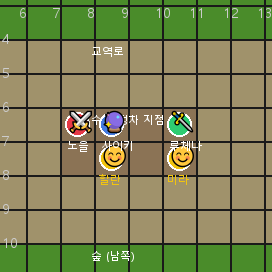
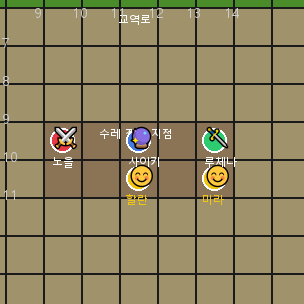
fix: 맵 세로 24칸 + tile 38px (26x24, 전체 1010x928px)

diff --git a/map_generator.py b/map_generator.py
@@ -17,7 +17,7 @@ font_paths_global = [
 
 class MapGenerator:
     def __init__(self):
-        self.tile_size = 34
+        self.tile_size = 38
         self.map_width = 20
         self.map_height = 15
         self.img_width = self.map_width * self.tile_size
